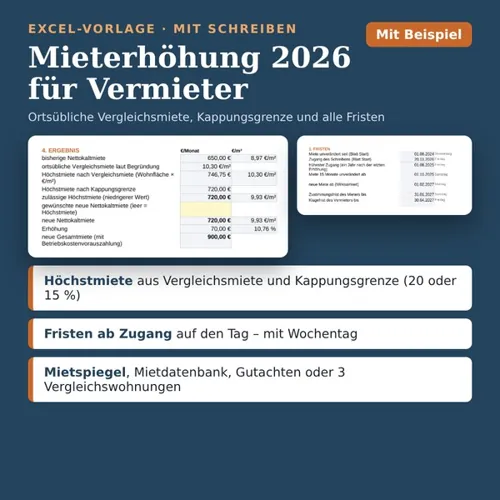
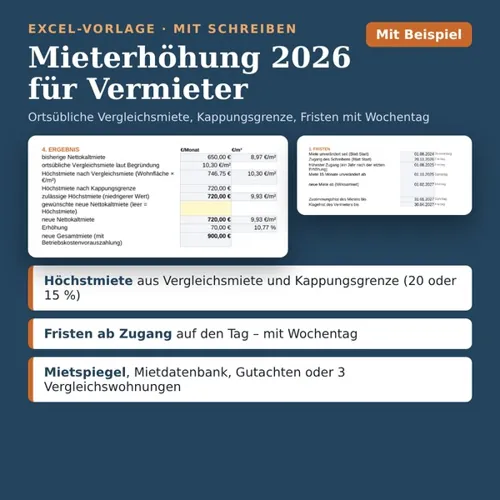
WIP: Produktseite Mieterhöhung (in Prüfung), Paket-Texte ohne „alle“
Claude-Session: https://claude.ai/code/session_0175UiJjZS6AvFwhkbq53yr1

diff --git a/docs/mieterhoehung.html b/docs/mieterhoehung.html
@@ -1,0 +1,66 @@
+<!doctype html>
+<html lang="de">
+<head>
+<meta charset="utf-8">
+<meta name="viewport" content="width=device-width, initial-scale=1">
+<title>Mieterhöhung Vorlage (Excel) 2026 – mit Fristen &amp; Schreiben</title>
+<meta name="description" content="Mieterhöhung 2026 als Excel-Vorlage: Vergleichsmiete, Kappungsgrenze und Fristen rechnen, Schreiben mit Zustimmungserklärung, auch Indexmiete. 9,90 €.">
+<link rel="stylesheet" href="style.css">
+<link rel="canonical" href="https://vermieterordner.de/mieterhoehung.html">
+<meta property="og:title" content="Mieterhöhung Vorlage (Excel) 2026 – mit Fristen &amp; Schreiben">
+<meta property="og:description" content="Mieterhöhung 2026 als Excel-Vorlage: Vergleichsmiete, Kappungsgrenze und Fristen rechnen, Schreiben mit Zustimmungserklärung, auch Indexmiete. 9,90 €.">
+<meta property="og:type" content="website">
+<meta property="og:url" content="https://vermieterordner.de/mieterhoehung.html">
+<meta property="og:locale" content="de_DE">
+<meta property="og:site_name" content="Vermieterordner">
+<meta property="og:image" content="https://vermieterordner.de/img/og.png">
+<meta name="p:domain_verify" content="6619a1c3e96181cb258971813ee2eca4">
+<link rel="icon" href="favicon.svg" type="image/svg+xml">
+<link rel="icon" href="favicon-48.png" sizes="48x48" type="image/png"><link rel="apple-touch-icon" href="apple-touch-icon.png">
+<meta name="theme-color" content="#24435C">
+<script type="application/ld+json">{"@context": "https://schema.org", "@type": "FAQPage", "mainEntity": [{"@type": "Question", "name": "Ersetzt die Vorlage eine Rechtsberatung?", "acceptedAnswer": {"@type": "Answer", "text": "Nein. Sie rechnet Fristen und Grenzen und formuliert das Schreiben nach den gesetzlichen Vorgaben. Ob die verlangte Miete der ortsüblichen Vergleichsmiete entspricht, entscheidet im Streitfall das Gericht. Bei Sonderfällen wie geförderten Wohnungen oder unklaren Verträgen lassen Sie sich beraten."}}, {"@type": "Question", "name": "Sind Mietspiegelwerte enthalten?", "acceptedAnswer": {"@type": "Answer", "text": "Nein. Den Mietspiegel Ihrer Gemeinde und die passende Spanne tragen Sie selbst ein. Ist der Mietspiegel nicht allgemein zugänglich, fügen Sie ihn dem Schreiben bei."}}, {"@type": "Question", "name": "Läuft die Vorlage in Google Sheets?", "acceptedAnswer": {"@type": "Answer", "text": "Die Vorlage ist für Microsoft Excel (ab 2010) und LibreOffice gebaut und nutzt nur Funktionen, die beide beherrschen; geprüft wurde sie in LibreOffice. Google Sheets unterstützen wir bei dieser Vorlage nicht."}}, {"@type": "Question", "name": "Wie bekomme ich die Datei?", "acceptedAnswer": {"@type": "Answer", "text": "Nach Verkaufsstart: direkt nach der Zahlung über den Download-Link auf der Bestätigungsseite und zusätzlich per E-Mail von Digistore24."}}, {"@type": "Question", "name": "Für wen sind die Vorlagen gebaut?", "acceptedAnswer": {"@type": "Answer", "text": "Für private Vermieter von Wohnraum in Deutschland. Für Gewerberaum sind sie nicht gebaut. Was jede Vorlage genau abdeckt, steht auf der jeweiligen Produktseite."}}]}</script><script type="application/ld+json">{"@context": "https://schema.org", "@type": "BreadcrumbList", "itemListElement": [{"@type": "ListItem", "position": 1, "name": "Vermieterordner", "item": "https://vermieterordner.de/"}, {"@type": "ListItem", "position": 2, "name": "Mieterhöhung 2026", "item": "https://vermieterordner.de/mieterhoehung.html"}]}</script>
+</head>
+<body>
+<header><div class="wrap">
+<a class="brand" href="index.html" aria-label="Vermieterordner – Startseite"><svg class="mark" viewBox="0 0 64 64" aria-hidden="true" xmlns="http://www.w3.org/2000/svg"><rect width="64" height="64" rx="14" fill="#24435C"/><rect x="9" y="9" width="46" height="46" rx="10" fill="#F7F5F0"/><text x="27" y="44" text-anchor="middle" font-family="Georgia,serif" font-weight="700" font-size="32" fill="#24435C">V</text><circle cx="46" cy="20" r="4" fill="#C8692B"/><circle cx="46" cy="32" r="4" fill="#E9B44C"/><circle cx="46" cy="44" r="4" fill="#5B8E7D"/></svg><span class="serif">Vermieterordner</span></a>
+<nav aria-label="Hauptnavigation"><a href="index.html#produkte">Produkte</a><a href="rechner.html">Rechner</a><a href="ratgeber.html">Ratgeber</a><a class="navbuy" href="mieterhoehung.html#kaufen">Mieterhöhungs-Vorlage</a></nav>
+</div></header>
+<main>
+<div class="wrap hero">
+<div>
+<p class="eyebrow">Excel-Vorlage · Stand 2026</p>
+<h1 class="serif">Mieterhöhung 2026 – Excel-Vorlage mit Schreiben an den Mieter</h1>
+<p class="lead">Aktuelle Miete, Fläche und Begründung eintragen – die Vorlage rechnet, wann Sie die Erhöhung verlangen können, ab wann die neue Miete gilt und wie weit Vergleichsmiete und Kappungsgrenze reichen. Daraus entsteht das Erhöhungsschreiben mit Zustimmungserklärung. Für Indexmieten rechnet sie die Anpassung nach dem Verbraucherpreisindex und erstellt die Erklärung.</p>
+<span class="btn soon" aria-disabled="true">Bald verfügbar</span>
+<p class="note">Erscheint in Kürze: Die Vorlage ist fertig und geprüft, der Kauf über Digistore24 wird gerade eingerichtet.</p>
+</div>
+<div><picture><source type="image/webp" srcset="img/mieterhoehung-1-500.webp 500w, img/mieterhoehung-1.webp 1000w" sizes="(max-width:640px) 100vw, 460px"><img class="heroimg" src="img/mieterhoehung-1.jpg" width="1000" height="1000" alt="Produktbild Mieterhöhung 2026"></picture></div>
+</div>
+<figure class="strip"><picture class=""><source type="image/webp" srcset="img/foto/papiere-800.webp 800w, img/foto/papiere-1600.webp 1600w" sizes="100vw"><img src="img/foto/papiere.jpg" width="1600" height="918" alt="Unterlagen, Stift und Taschenrechner auf dem Tisch" loading="lazy"></picture><figcaption><span class="wrap">Einmal ausrechnen, dann schreiben: Fristen und Grenzen der Mieterhöhung.</span></figcaption></figure>
+<section class="band"><div class="wrap">
+<h2 class="serif">Das bekommen Sie</h2>
+<div class="split"><div><table class="spec"><tr><th>Produkt</th><td>Mieterhöhung 2026</td></tr><tr><th>Art</th><td>Digitales Produkt zum Herunterladen. Kein Versand, keine Installation, kein Abo.</td></tr><tr><th>Format</th><td>ZIP-Datei mit Excel-Vorlage (.xlsx, leer), ausgefülltem Beispiel und PDF-Kurzanleitung, Sprache Deutsch. Für Microsoft Excel und LibreOffice.</td></tr><tr><th>Inhalt</th><td>Arbeitsblätter Start (Eingaben, Ergebnis, 15 Prüfungen), Vergleichsmiete, Erhöhungsschreiben, Indexmiete, Indexschreiben und Info mit Rechtsgrundlagen</td></tr><tr><th>Lieferung</th><td>Nach Verkaufsstart: Download-Link sofort nach der Zahlung, zusätzlich per E-Mail</td></tr><tr><th>Preis</th><td><strong>9,90&nbsp;€ einmalig</strong></td></tr><tr><th>Für wen</th><td>private Vermieter von Wohnraum in Deutschland – für Erhöhungen auf die ortsübliche Vergleichsmiete (§&nbsp;558 BGB) und bei vereinbarter Indexmiete (§&nbsp;557b BGB); nicht für Staffelmiete, preisgebundenen Wohnraum oder Modernisierungsmieterhöhungen</td></tr></table></div>
+<div class="shots"><picture><source type="image/webp" srcset="img/mieterhoehung-1-500.webp 500w, img/mieterhoehung-1.webp 1000w" sizes="(max-width:640px) 100vw, 360px"><img src="img/mieterhoehung-1.jpg" width="1000" height="1000" alt="Beispielansicht Mieterhöhung 2026" loading="lazy"></picture><picture><source type="image/webp" srcset="img/mieterhoehung-2-500.webp 500w, img/mieterhoehung-2.webp 1000w" sizes="(max-width:640px) 100vw, 360px"><img src="img/mieterhoehung-2.jpg" width="1000" height="1000" alt="Beispielansicht Mieterhöhung 2026" loading="lazy"></picture><picture><source type="image/webp" srcset="img/mieterhoehung-3-500.webp 500w, img/mieterhoehung-3.webp 1000w" sizes="(max-width:640px) 100vw, 360px"><img src="img/mieterhoehung-3.jpg" width="1000" height="1000" alt="Beispielansicht Mieterhöhung 2026" loading="lazy"></picture></div></div>
+</div></section>
+<section><div class="wrap"><h2 class="serif">Was das Produkt kann</h2><div class="grid2"><div class="feat"><h3>Fristen mit Wochentag</h3><p>Frühester Zugang nach der Jahressperrfrist, 15 Monate unveränderte Miete, Zustimmung bis Ende des zweiten Monats nach Zugang, neue Miete ab Beginn des dritten Monats und Klagefrist – jeweils mit Datum und Wochentag.</p></div><div class="feat"><h3>Kappungsgrenze 20&nbsp;% oder 15&nbsp;%</h3><p>Die Vorlage sucht den Stichtag drei Jahre vor dem Erhöhungstermin, rechnet die Höchstmiete und lässt Modernisierungserhöhungen außen vor. Ob in Ihrer Gemeinde 15&nbsp;% gelten, sehen Sie in der Verordnung Ihres Landes nach.</p></div><div class="feat"><h3>Drei Wege der Begründung</h3><p>Mietspiegel mit Spanne, Auskunft aus einer Mietdatenbank oder Gutachten, oder bis zu 5 Vergleichswohnungen. Die Begründungssätze im Schreiben erscheinen nur, wenn sie für die verlangte Miete auch stimmen.</p></div><div class="feat"><h3>Schreiben mit Zustimmungserklärung</h3><p>Das Erhöhungsschreiben übernimmt Namen, Beträge, Termine und Begründung – in der Ich- oder Wir-Form. Solange eine Prüfung „Achtung“ meldet, steht „ENTWURF“ auf dem Schreiben.</p></div><div class="feat"><h3>Indexmiete nach dem VPI</h3><p>Alte und neue Indexstände eintragen, die Vorlage rechnet die neue Miete prozentual, prüft die Jahresfrist und erstellt die Erklärung in Textform. Die Indexwerte veröffentlicht das Statistische Bundesamt.</p></div><div class="feat"><h3>15 Prüfungen und ein Beispiel</h3><p>Warnungen etwa bei zu frühem Zugang, Miete über der Vergleichsmiete, überschrittener Kappungsgrenze, öffentlichen Fördermitteln oder Staffelmiete. Ein ausgefülltes Beispiel zeigt jeden Schritt.</p></div></div></div></section>
+<section><div class="wrap"><h2 class="serif">Kostenlos dazu</h2><div class="grid2"><a class="pcard" href="indexmiete-erhoehen.html"><div class="pbody"><h3>Indexmiete erhöhen – Berechnung, Erklärung und Fristen</h3><p>Neue Miete = Miete × neuer Index ÷ alter Index. Was in die Erklärung gehört, ab wann die neue Miete gilt und was die geplante Deckelung ändern würde.</p><div class="prow"><span class="more">Lesen →</span></div></div></a><a class="pcard" href="nebenkosten-vorauszahlung-anpassen.html"><div class="pbody"><h3>Nebenkosten-Vorauszahlung anpassen – so erhöhen Vermieter richtig</h3><p>Nach der Abrechnung per E-Mail oder Brief anpassen – aber nur auf eine angemessene Höhe: wie Sie rechnen, ab wann sie gilt und was der Mieter verlangen kann.</p><div class="prow"><span class="more">Lesen →</span></div></div></a><a class="pcard" href="umlagefaehige-nebenkosten.html"><div class="pbody"><h3>Umlagefähige Nebenkosten 2026 – die Liste nach Betriebskosten&shy;verordnung</h3><p>Alle 17 Kostenarten mit Beispielen – und welche Kosten Sie nie auf Mieter umlegen dürfen.</p><div class="prow"><span class="more">Lesen →</span></div></div></a></div></div></section>
+<section class="band"><div class="wrap faq">
+<h2 class="serif">Häufige Fragen</h2>
+<h3>Ersetzt die Vorlage eine Rechtsberatung?</h3><p>Nein. Sie rechnet Fristen und Grenzen und formuliert das Schreiben nach den gesetzlichen Vorgaben. Ob die verlangte Miete der ortsüblichen Vergleichsmiete entspricht, entscheidet im Streitfall das Gericht. Bei Sonderfällen wie geförderten Wohnungen oder unklaren Verträgen lassen Sie sich beraten.</p><h3>Sind Mietspiegelwerte enthalten?</h3><p>Nein. Den Mietspiegel Ihrer Gemeinde und die passende Spanne tragen Sie selbst ein. Ist der Mietspiegel nicht allgemein zugänglich, fügen Sie ihn dem Schreiben bei.</p><h3>Läuft die Vorlage in Google Sheets?</h3><p>Die Vorlage ist für Microsoft Excel (ab 2010) und LibreOffice gebaut und nutzt nur Funktionen, die beide beherrschen; geprüft wurde sie in LibreOffice. Google Sheets unterstützen wir bei dieser Vorlage nicht.</p><h3>Wie bekomme ich die Datei?</h3><p>Nach Verkaufsstart: direkt nach der Zahlung über den Download-Link auf der Bestätigungsseite und zusätzlich per E-Mail von Digistore24.</p><h3>Für wen sind die Vorlagen gebaut?</h3><p>Für private Vermieter von Wohnraum in Deutschland. Für Gewerberaum sind sie nicht gebaut. Was jede Vorlage genau abdeckt, steht auf der jeweiligen Produktseite.</p>
+</div></section>
+<section id="kaufen" class="band"><div class="wrap buy">
+<h2 class="serif">Mieterhöhung 2026 – bald verfügbar</h2>
+<p class="sub2">Erscheint in Kürze: Die Vorlage ist fertig und geprüft, der Kauf über Digistore24 wird gerade eingerichtet.</p>
+<div class="price-big serif">9,90&nbsp;€</div>
+<span class="btn btn-lg soon" aria-disabled="true">Bald verfügbar</span>
+<p class="note">Preis inkl. gesetzlicher MwSt., sofern anfallend.</p>
+</div></section>
+</main>
+<footer><div class="wrap">
+<div class="fbrand"><a class="brand" href="index.html"><svg class="mark" viewBox="0 0 64 64" aria-hidden="true" xmlns="http://www.w3.org/2000/svg"><rect width="64" height="64" rx="14" fill="#24435C"/><rect x="9" y="9" width="46" height="46" rx="10" fill="#F7F5F0"/><text x="27" y="44" text-anchor="middle" font-family="Georgia,serif" font-weight="700" font-size="32" fill="#24435C">V</text><circle cx="46" cy="20" r="4" fill="#C8692B"/><circle cx="46" cy="32" r="4" fill="#E9B44C"/><circle cx="46" cy="44" r="4" fill="#5B8E7D"/></svg><span class="serif">Vermieterordner</span></a>
+<p>Excel-Vorlagen und kostenlose Rechner für private Vermieter in Deutschland. Stand 2026.</p></div>
+<nav aria-label="Fußzeile"><a href="index.html#produkte">Produkte</a><a href="rechner.html">Rechner</a><a href="ratgeber.html">Ratgeber</a><a href="impressum.html">Impressum</a><a href="datenschutz.html">Datenschutz</a><a href="mailto:hallo@solovorlagen.de">hallo@solovorlagen.de</a></nav>
+<p class="copy">© 2026 Vermieterordner · Felix Merklinger-Lötzsch</p>
+</div></footer>
+</body>
+</html>

diff --git a/docs/index.html b/docs/index.html
@@ -43,8 +43,10 @@
 <div class="ptxt"><h3><a href="wohnungsuebergabeprotokoll.html">Wohnungs&shy;übergabe&shy;protokoll</a></h3><p>Einzug und Auszug Raum für Raum protokollieren – mit Mängelliste, Zählern, Schlüsseln und Unterschriftsfeldern.</p><ul class="ticks"><li>Raum für Raum</li><li>Vergleich mit dem Einzug</li><li>Zähler und Schlüssel</li></ul></div>
 <div class="pbuy"><span class="price">9,90&nbsp;€</span><a class="btn btn-sm" href="wohnungsuebergabeprotokoll.html">Ansehen</a></div></article><article class="prow2"><a class="pthumb" href="anlage-v.html"><picture><source type="image/webp" srcset="img/anlagev-1-500.webp 500w, img/anlagev-1.webp 1000w" sizes="(max-width:640px) 100vw, 360px"><img src="img/anlagev-1.jpg" width="1000" height="1000" alt="Produktbild Anlage V 2026" loading="lazy"></picture></a>
 <div class="ptxt"><h3><a href="anlage-v.html">Anlage V 2026</a></h3><p>Mieteinnahmen, Werbungskosten und AfA je Objekt sammeln – mit Summen für die Anlage V und 12 Prüfungen.</p><ul class="ticks"><li>Einnahmen je Monat und Wohnung</li><li>Werbungskosten wie im Formular</li><li>Verbilligte Vermietung geprüft</li></ul></div>
-<div class="pbuy"><span class="price">12,90&nbsp;€</span><a class="btn btn-sm" href="anlage-v.html">Ansehen</a></div></article><article class="prow2"><a class="pthumb" href="vermieter-paket.html"><picture><source type="image/webp" srcset="img/vermieter-paket-1-500.webp 500w, img/vermieter-paket-1.webp 1000w" sizes="(max-width:640px) 100vw, 360px"><img src="img/vermieter-paket-1.jpg" width="1000" height="1000" alt="Produktbild Vermieter-Paket 2026" loading="lazy"></picture></a>
-<div class="ptxt"><h3><a href="vermieter-paket.html">Vermieter-Paket 2026</a></h3><p>Alle 4 Excel-Vorlagen in einem Download: Nebenkosten&shy;abrechnung, Kautions&shy;abrechnung, Wohnungs&shy;übergabe&shy;protokoll und Anlage V 2026.</p><ul class="ticks"><li>4 Vorlagen, je eine eigene Datei</li><li>Dieselben Dateien wie einzeln</li><li>14,70&nbsp;€ weniger als einzeln</li></ul></div>
+<div class="pbuy"><span class="price">12,90&nbsp;€</span><a class="btn btn-sm" href="anlage-v.html">Ansehen</a></div></article><article class="prow2"><a class="pthumb" href="mieterhoehung.html"><picture><source type="image/webp" srcset="img/mieterhoehung-1-500.webp 500w, img/mieterhoehung-1.webp 1000w" sizes="(max-width:640px) 100vw, 360px"><img src="img/mieterhoehung-1.jpg" width="1000" height="1000" alt="Produktbild Mieterhöhung 2026" loading="lazy"></picture></a>
+<div class="ptxt"><h3><a href="mieterhoehung.html">Mieterhöhung 2026</a></h3><p>Mieterhöhung auf die ortsübliche Vergleichsmiete oder nach Index rechnen – mit Fristen, Kappungsgrenze und fertigem Schreiben.</p><ul class="ticks"><li>Fristen mit Wochentag</li><li>Kappungsgrenze 20&nbsp;% oder 15&nbsp;%</li><li>Drei Wege der Begründung</li></ul></div>
+<div class="pbuy"><span class="price">9,90&nbsp;€<small class="cmp">Bald verfügbar</small></span><a class="btn btn-sm" href="mieterhoehung.html">Ansehen</a></div></article><article class="prow2"><a class="pthumb" href="vermieter-paket.html"><picture><source type="image/webp" srcset="img/vermieter-paket-1-500.webp 500w, img/vermieter-paket-1.webp 1000w" sizes="(max-width:640px) 100vw, 360px"><img src="img/vermieter-paket-1.jpg" width="1000" height="1000" alt="Produktbild Vermieter-Paket 2026" loading="lazy"></picture></a>
+<div class="ptxt"><h3><a href="vermieter-paket.html">Vermieter-Paket 2026</a></h3><p>4 Excel-Vorlagen in einem Download: Nebenkosten&shy;abrechnung, Kautions&shy;abrechnung, Wohnungs&shy;übergabe&shy;protokoll und Anlage V 2026.</p><ul class="ticks"><li>4 Vorlagen, je eine eigene Datei</li><li>Dieselben Dateien wie einzeln</li><li>14,70&nbsp;€ weniger als einzeln</li></ul></div>
 <div class="pbuy"><span class="price">32,90&nbsp;€<small class="cmp">einzeln zusammen 47,60&nbsp;€</small><small class="cmp">Bald verfügbar</small></span><a class="btn btn-sm" href="vermieter-paket.html">Ansehen</a></div></article></div>
 <p class="note">Einmalzahlung, kein Abo. Preise inkl. gesetzlicher MwSt., sofern anfallend.</p>
 </div></section>

diff --git a/docs/vermieter-paket.html b/docs/vermieter-paket.html
@@ -29,8 +29,8 @@
 <div class="wrap hero">
 <div>
 <p class="eyebrow">4 Excel-Vorlagen · Stand 2026</p>
-<h1 class="serif">Vermieter-Paket 2026 – alle 4 Excel-Vorlagen für private Vermieter</h1>
-<p class="lead">Die vier Vorlagen von Vermieterordner in einem Download: Nebenkosten&shy;abrechnung, Kautions&shy;abrechnung, Wohnungs&shy;übergabe&shy;protokoll und Anlage V 2026. Dieselben Dateien wie beim Einzelkauf – vom Einzug über die jährliche Abrechnung und die Steuererklärung bis zum Auszug.</p>
+<h1 class="serif">Vermieter-Paket 2026 – 4 Excel-Vorlagen für private Vermieter</h1>
+<p class="lead">Vier Vorlagen von Vermieterordner in einem Download: Nebenkosten&shy;abrechnung, Kautions&shy;abrechnung, Wohnungs&shy;übergabe&shy;protokoll und Anlage V 2026. Dieselben Dateien wie beim Einzelkauf – vom Einzug über die jährliche Abrechnung und die Steuererklärung bis zum Auszug.</p>
 <span class="btn soon" aria-disabled="true">Bald verfügbar</span>
 <p class="note">Erscheint in Kürze: Die Vorlagen sind fertig und geprüft, der Kauf über Digistore24 wird gerade eingerichtet.</p>
 </div>

diff --git a/docs/anlage-v.html b/docs/anlage-v.html
@@ -54,7 +54,7 @@
 <div class="price-big serif">12,90&nbsp;€</div>
 <a class="btn btn-lg" href="https://www.checkout-ds24.com/product/759897" rel="nofollow">Jetzt kaufen</a>
 <p class="note">Sichere Zahlung und Rechnung über Digistore24. Preis inkl. gesetzlicher MwSt., sofern anfallend.</p>
-<p class="bundlehint">Bald auch im <a href="vermieter-paket.html">Vermieter-Paket 2026</a> enthalten: alle 4 Vorlagen für 32,90&nbsp;€ (einzeln zusammen 47,60&nbsp;€).</p>
+<p class="bundlehint">Bald auch im <a href="vermieter-paket.html">Vermieter-Paket 2026</a> enthalten: 4 Vorlagen für 32,90&nbsp;€ (einzeln zusammen 47,60&nbsp;€).</p>
 </div></section>
 </main>
 <footer><div class="wrap">

diff --git a/docs/nebenkostenabrechnung.html b/docs/nebenkostenabrechnung.html
@@ -54,7 +54,7 @@
 <div class="price-big serif">14,90&nbsp;€</div>
 <a class="btn btn-lg" href="https://www.checkout-ds24.com/product/757557" rel="nofollow">Jetzt kaufen</a>
 <p class="note">Sichere Zahlung und Rechnung über Digistore24. Preis inkl. gesetzlicher MwSt., sofern anfallend.</p>
-<p class="bundlehint">Bald auch im <a href="vermieter-paket.html">Vermieter-Paket 2026</a> enthalten: alle 4 Vorlagen für 32,90&nbsp;€ (einzeln zusammen 47,60&nbsp;€).</p>
+<p class="bundlehint">Bald auch im <a href="vermieter-paket.html">Vermieter-Paket 2026</a> enthalten: 4 Vorlagen für 32,90&nbsp;€ (einzeln zusammen 47,60&nbsp;€).</p>
 </div></section>
 </main>
 <footer><div class="wrap">

diff --git a/docs/kautionsabrechnung.html b/docs/kautionsabrechnung.html
@@ -54,7 +54,7 @@
 <div class="price-big serif">9,90&nbsp;€</div>
 <a class="btn btn-lg" href="https://www.checkout-ds24.com/product/758283" rel="nofollow">Jetzt kaufen</a>
 <p class="note">Sichere Zahlung und Rechnung über Digistore24. Preis inkl. gesetzlicher MwSt., sofern anfallend.</p>
-<p class="bundlehint">Bald auch im <a href="vermieter-paket.html">Vermieter-Paket 2026</a> enthalten: alle 4 Vorlagen für 32,90&nbsp;€ (einzeln zusammen 47,60&nbsp;€).</p>
+<p class="bundlehint">Bald auch im <a href="vermieter-paket.html">Vermieter-Paket 2026</a> enthalten: 4 Vorlagen für 32,90&nbsp;€ (einzeln zusammen 47,60&nbsp;€).</p>
 </div></section>
 </main>
 <footer><div class="wrap">

diff --git a/docs/wohnungsuebergabeprotokoll.html b/docs/wohnungsuebergabeprotokoll.html
@@ -54,7 +54,7 @@
 <div class="price-big serif">9,90&nbsp;€</div>
 <a class="btn btn-lg" href="https://www.checkout-ds24.com/product/759547" rel="nofollow">Jetzt kaufen</a>
 <p class="note">Sichere Zahlung und Rechnung über Digistore24. Preis inkl. gesetzlicher MwSt., sofern anfallend.</p>
-<p class="bundlehint">Bald auch im <a href="vermieter-paket.html">Vermieter-Paket 2026</a> enthalten: alle 4 Vorlagen für 32,90&nbsp;€ (einzeln zusammen 47,60&nbsp;€).</p>
+<p class="bundlehint">Bald auch im <a href="vermieter-paket.html">Vermieter-Paket 2026</a> enthalten: 4 Vorlagen für 32,90&nbsp;€ (einzeln zusammen 47,60&nbsp;€).</p>
 </div></section>
 </main>
 <footer><div class="wrap">

diff --git a/src/gen_site.py b/src/gen_site.py
@@ -282,7 +282,7 @@ def bundle_hint(p):
         # Paket noch ohne Checkout: Hinweis sagt klar „bald“ und verlinkt die Paketseite (dort „Bald verfügbar“)
         pre = "Auch im" if b.get("checkout_url") else "Bald auch im"
         out += (f'<p class="bundlehint">{pre} <a href="{b["slug"]}.html">{esc(b["name"])}</a> enthalten: '
-                f'alle {n} Vorlagen für {money(b["price"])}' + (f' ({compare_txt(b)})' if compare_txt(b) else '') + '.</p>')
+                f'{n} Vorlagen für {money(b["price"])}' + (f' ({compare_txt(b)})' if compare_txt(b) else '') + '.</p>')
     return out
 
 
